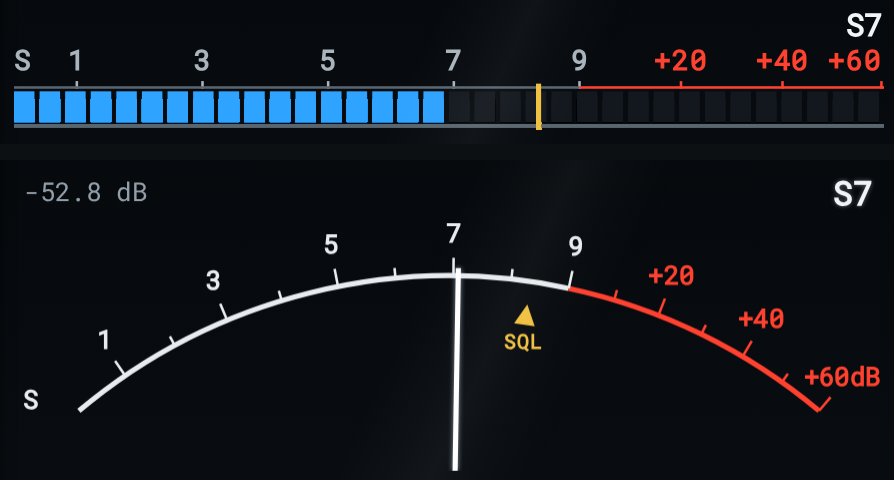
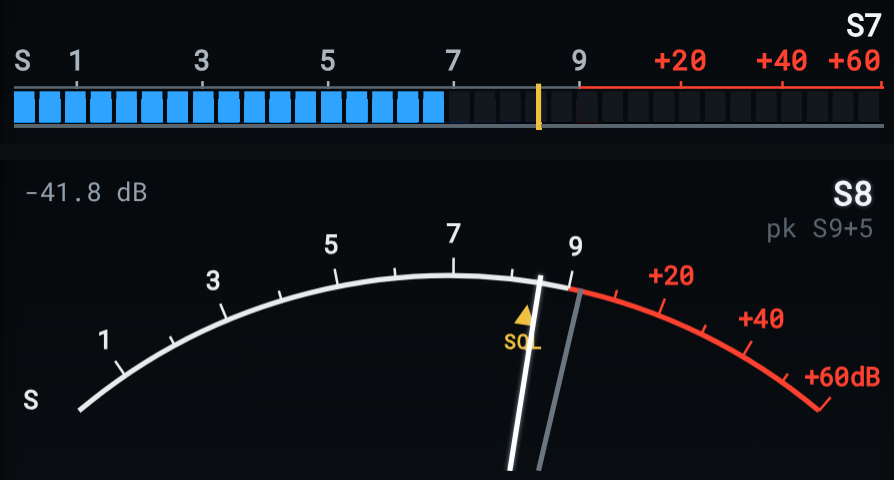
0.9.11: remove the LCD glass sheen; keep the panel grain
The diagonal sheen over the LCD read as glare; the LCD is plain and
clear again. Meters screenshot retaken without it.

diff --git a/receiver/rig_skin/rig_skin.css b/receiver/rig_skin/rig_skin.css
@@ -342,22 +342,6 @@ body.theme-rig #openwebrx-panel-receiver .frequencies-container {
     animation: owrx-rig-poweron 0.55s ease-out both;
 }
 
-/* faint diagonal glass sheen over the LCD window */
-body.theme-rig #openwebrx-panel-receiver .frequencies-container::after {
-    content: '';
-    position: absolute;
-    inset: 0;
-    border-radius: 5px;
-    background: linear-gradient(115deg,
-        rgba(255, 255, 255, 0) 42%,
-        rgba(255, 255, 255, 0.025) 47%,
-        rgba(255, 255, 255, 0.045) 50%,
-        rgba(255, 255, 255, 0.02) 53%,
-        rgba(255, 255, 255, 0) 58%);
-    pointer-events: none;
-    z-index: 4;
-}
-
 @keyframes owrx-rig-poweron {
     from { opacity: 0; }
     to { opacity: 1; }

diff --git a/CHANGELOG.md b/CHANGELOG.md
@@ -25,8 +25,7 @@
   it better.
 - The radar grades by the median of each slot's readings instead of the
   peak, so noise spikes cannot fake a beacon.
-- The face gained texture: a fine powder-coat grain on the panel metal
-  and a faint glass sheen across the LCD window. Both subtle.
+- The face gained texture: a fine powder-coat grain on the panel metal.
 - Power-on: switching to the Rig theme boots the face in stages, LCD
   first, then the dial, then the controls.
 
